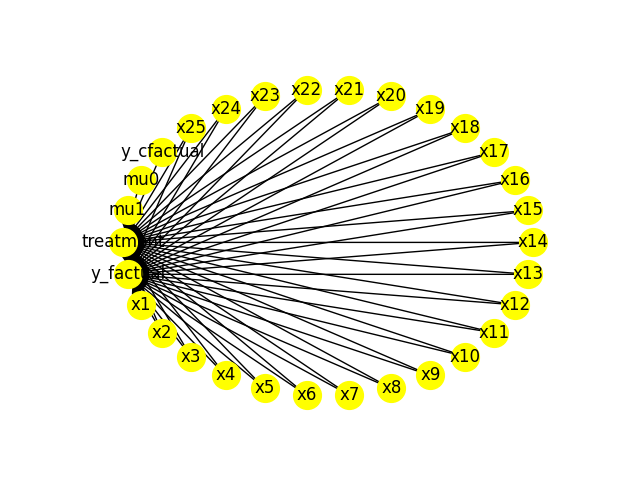
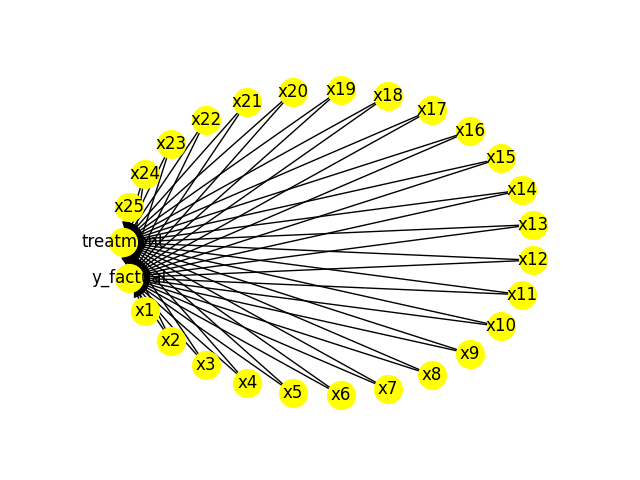
Estimacion y refutacion funcionando

Changed region(s): [[0.125, 0.1562, 0.875, 0.875]]

diff --git a/Interfaz/dowhyMethods/estimate.py b/Interfaz/dowhyMethods/estimate.py
@@ -1,0 +1,116 @@
+import dowhy
+from dowhy import CausalModel
+import pandas as pd
+import numpy as np
+from sklearn.linear_model import LassoCV
+from sklearn.ensemble import GradientBoostingRegressor
+from sklearn.preprocessing import PolynomialFeatures
+import sys
+import warnings
+from sklearn.exceptions import DataConversionWarning
+
+def estimate_effect():
+
+    #--------------------- Configuraciones de Encoder ---------------------
+    sys.stdin.reconfigure(encoding='utf-8')
+    sys.stdout.reconfigure(encoding='utf-8')
+    #--------------------- Ignorar warnings ---------------------
+    warnings.filterwarnings(action='ignore', category=DataConversionWarning)
+    warnings.filterwarnings(action='ignore', category=FutureWarning)
+
+    path = getDowhyDataset()
+    data= pd.read_csv(path, header = 0)
+    settings = getDowhySettinngs()
+
+    data = data.astype({"treatment":'bool'}, copy=False)
+
+
+    # Create a causal model from the data and given common causes.
+    model=CausalModel(
+            data = data,
+            treatment=settings['treatment_column'],
+            outcome=settings['outcome_column'],
+            common_causes=settings['common_causes'],
+            instrumental= settings['instrumental_variables']
+            )
+    model.view_model()
+    from IPython.display import Image, display
+    display(Image(filename="causal_model.png"))
+
+    #Identify the causal effect
+  
+    identified_estimand = model.identify_effect(proceed_when_unidentifiable=True)
+    '''print(identified_estimand)'''
+    if settings['estimation_option'] == '0':
+        # Estimate the causal effect and compare it with Average Treatment Effect
+        estimate = model.estimate_effect(identified_estimand,
+                method_name="backdoor.linear_regression")
+        print('linear_regression')
+            
+    elif settings['estimation_option'] == '1':
+        estimate = model.estimate_effect(identified_estimand,
+                method_name="backdoor.propensity_score_matching")
+        print('propensity_score_matching')
+        
+    elif settings['estimation_option'] == '2':
+        estimate = model.estimate_effect(identified_estimand,
+                method_name="backdoor.propensity_score_weighting")
+        print('propensity_score_weighting')
+
+    elif settings['estimation_option'] == '3':
+        estimate = model.estimate_effect(identified_estimand, 
+                method_name="backdoor.econml.dml.DML",
+                                     control_value = 0,
+                                     treatment_value = 1,
+                                 target_units = lambda df: df["X0"]>1,  # condition used for CATE
+                                 confidence_intervals=False,
+                                method_params={"init_params":{'model_y':GradientBoostingRegressor(),
+                                                              'model_t': GradientBoostingRegressor(),
+                                                              "model_final":LassoCV(fit_intercept=False), 
+                                                              'featurizer':PolynomialFeatures(degree=1, include_bias=False)},
+                                               "fit_params":{}})
+        print('dml')
+                
+    #print(estimate
+    print("Causal Estimate is " + str(estimate.value))
+    
+
+    # Refute the obtained estimate using a placebo test
+    refute_results=model.refute_estimate(identified_estimand, estimate,
+            method_name="random_common_cause")
+    print(refute_results)
+
+def getDowhyDataset():
+    file = open ('dowhy_dataset.txt','r')
+    path = file.read()
+    file.close()
+    return path
+
+def getDowhySettinngs(): 
+    settings = {} 
+    setting_list = []
+    file = open ('dowhy_settings.txt','r')
+    for line in file:
+        c = '\n'
+        new_line = line.replace(c,"")
+        setting_list.append(new_line)
+    for i in range(len(setting_list)):
+        if i == 0:
+            settings['estimation_option'] = splitVariables(setting_list[i])
+        elif i == 1:
+            settings['treatment_column'] = splitVariables(setting_list[i])
+        elif i == 2:
+            settings['outcome_column'] = splitVariables(setting_list[i])
+        elif i == 3:
+            settings['instrumental_variables'] = splitVariables(setting_list[i])
+        elif i == 4:
+            settings['common_causes'] = splitVariables(setting_list[i])
+    return settings
+
+def splitVariables(setting_list):
+    setting_list = setting_list.split(",")
+    if len(setting_list) == 1:
+        setting_list = setting_list[0]
+    return setting_list
+
+estimate_effect()

diff --git a/Interfaz/classes/viewMethods.py b/Interfaz/classes/viewMethods.py
@@ -4,6 +4,7 @@ from tkinter import filedialog
 from tkinter.font import Font
 import bartMethods.buildBart as bb
 
+
 # Agrega los métodos de la clase a la interfaz gráfica
 def buildBartModelView(newWindow, center_canvas):
     # Coordenadas de los elementos
@@ -152,7 +153,7 @@ def buildBartModelView(newWindow, center_canvas):
             k_entry.config(state=NORMAL)
             nu_entry.config(state=NORMAL)
 
-    cross_validation_checkbox = Checkbutton(newWindow, text="Cross Validation", font=newWindow.label_font, bg='#08013D', fg='#FFFFFF', selectcolor="black", variable = cross_validation, command=activate_cross_validation)
+    cross_validation_checkbox = Checkbutton(newWindow, text="Cross Validation", font=newWindow.label_font, bg='#08013D', fg='#FFFFFF', selectcolor="black", variable = cross_validation, command= lambda: activate_cross_validation())
     cross_validation_checkbox.place(x=10, y=130)
 
     # Save button

diff --git a/Interfaz/dowhyMethods/buildCausalModel.py b/Interfaz/dowhyMethods/buildCausalModel.py
@@ -1,0 +1,20 @@
+def saveSettingsDowhy(treatment_column, outcome_column, instrumental_variables, common_causes, estimation_option):
+    f = open ('dowhy_settings.txt','w')
+    f.write(str(estimation_option))
+    f.write("\n")
+    f.write(treatment_column)
+    f.write("\n")
+    f.write(outcome_column)
+    f.write("\n")
+    f.write(instrumental_variables)
+    f.write("\n")
+    f.write(common_causes)
+    f.close()
+    
+def filePickerDowhy(newWindow):
+    file_path = filedialog.askopenfilename()
+    path_label = Label(newWindow, text=file_path, font=newWindow.label_font, bg='#FFFFFF', fg='#000000', width=65, height=1)
+    path_label.place(x=5, y=100)
+    f = open ('dowhy_dataset.txt','w')
+    f.write(file_path)
+    f.close()

diff --git a/Interfaz/classes/viewClass.py b/Interfaz/classes/viewClass.py
@@ -2,8 +2,6 @@ from tkinter import Toplevel, Tk, Canvas, Label, Button, StringVar, Entry, filed
 from tkinter.font import Font
 from PIL import Image, ImageTk
 import classes.viewMethods as vm
-import classes.BartApp.bartModel as bm
-import classes.BartApp.bartController as bc
 from views.bartView import BartView
 from views.doWhyView import DoWhyView
 
